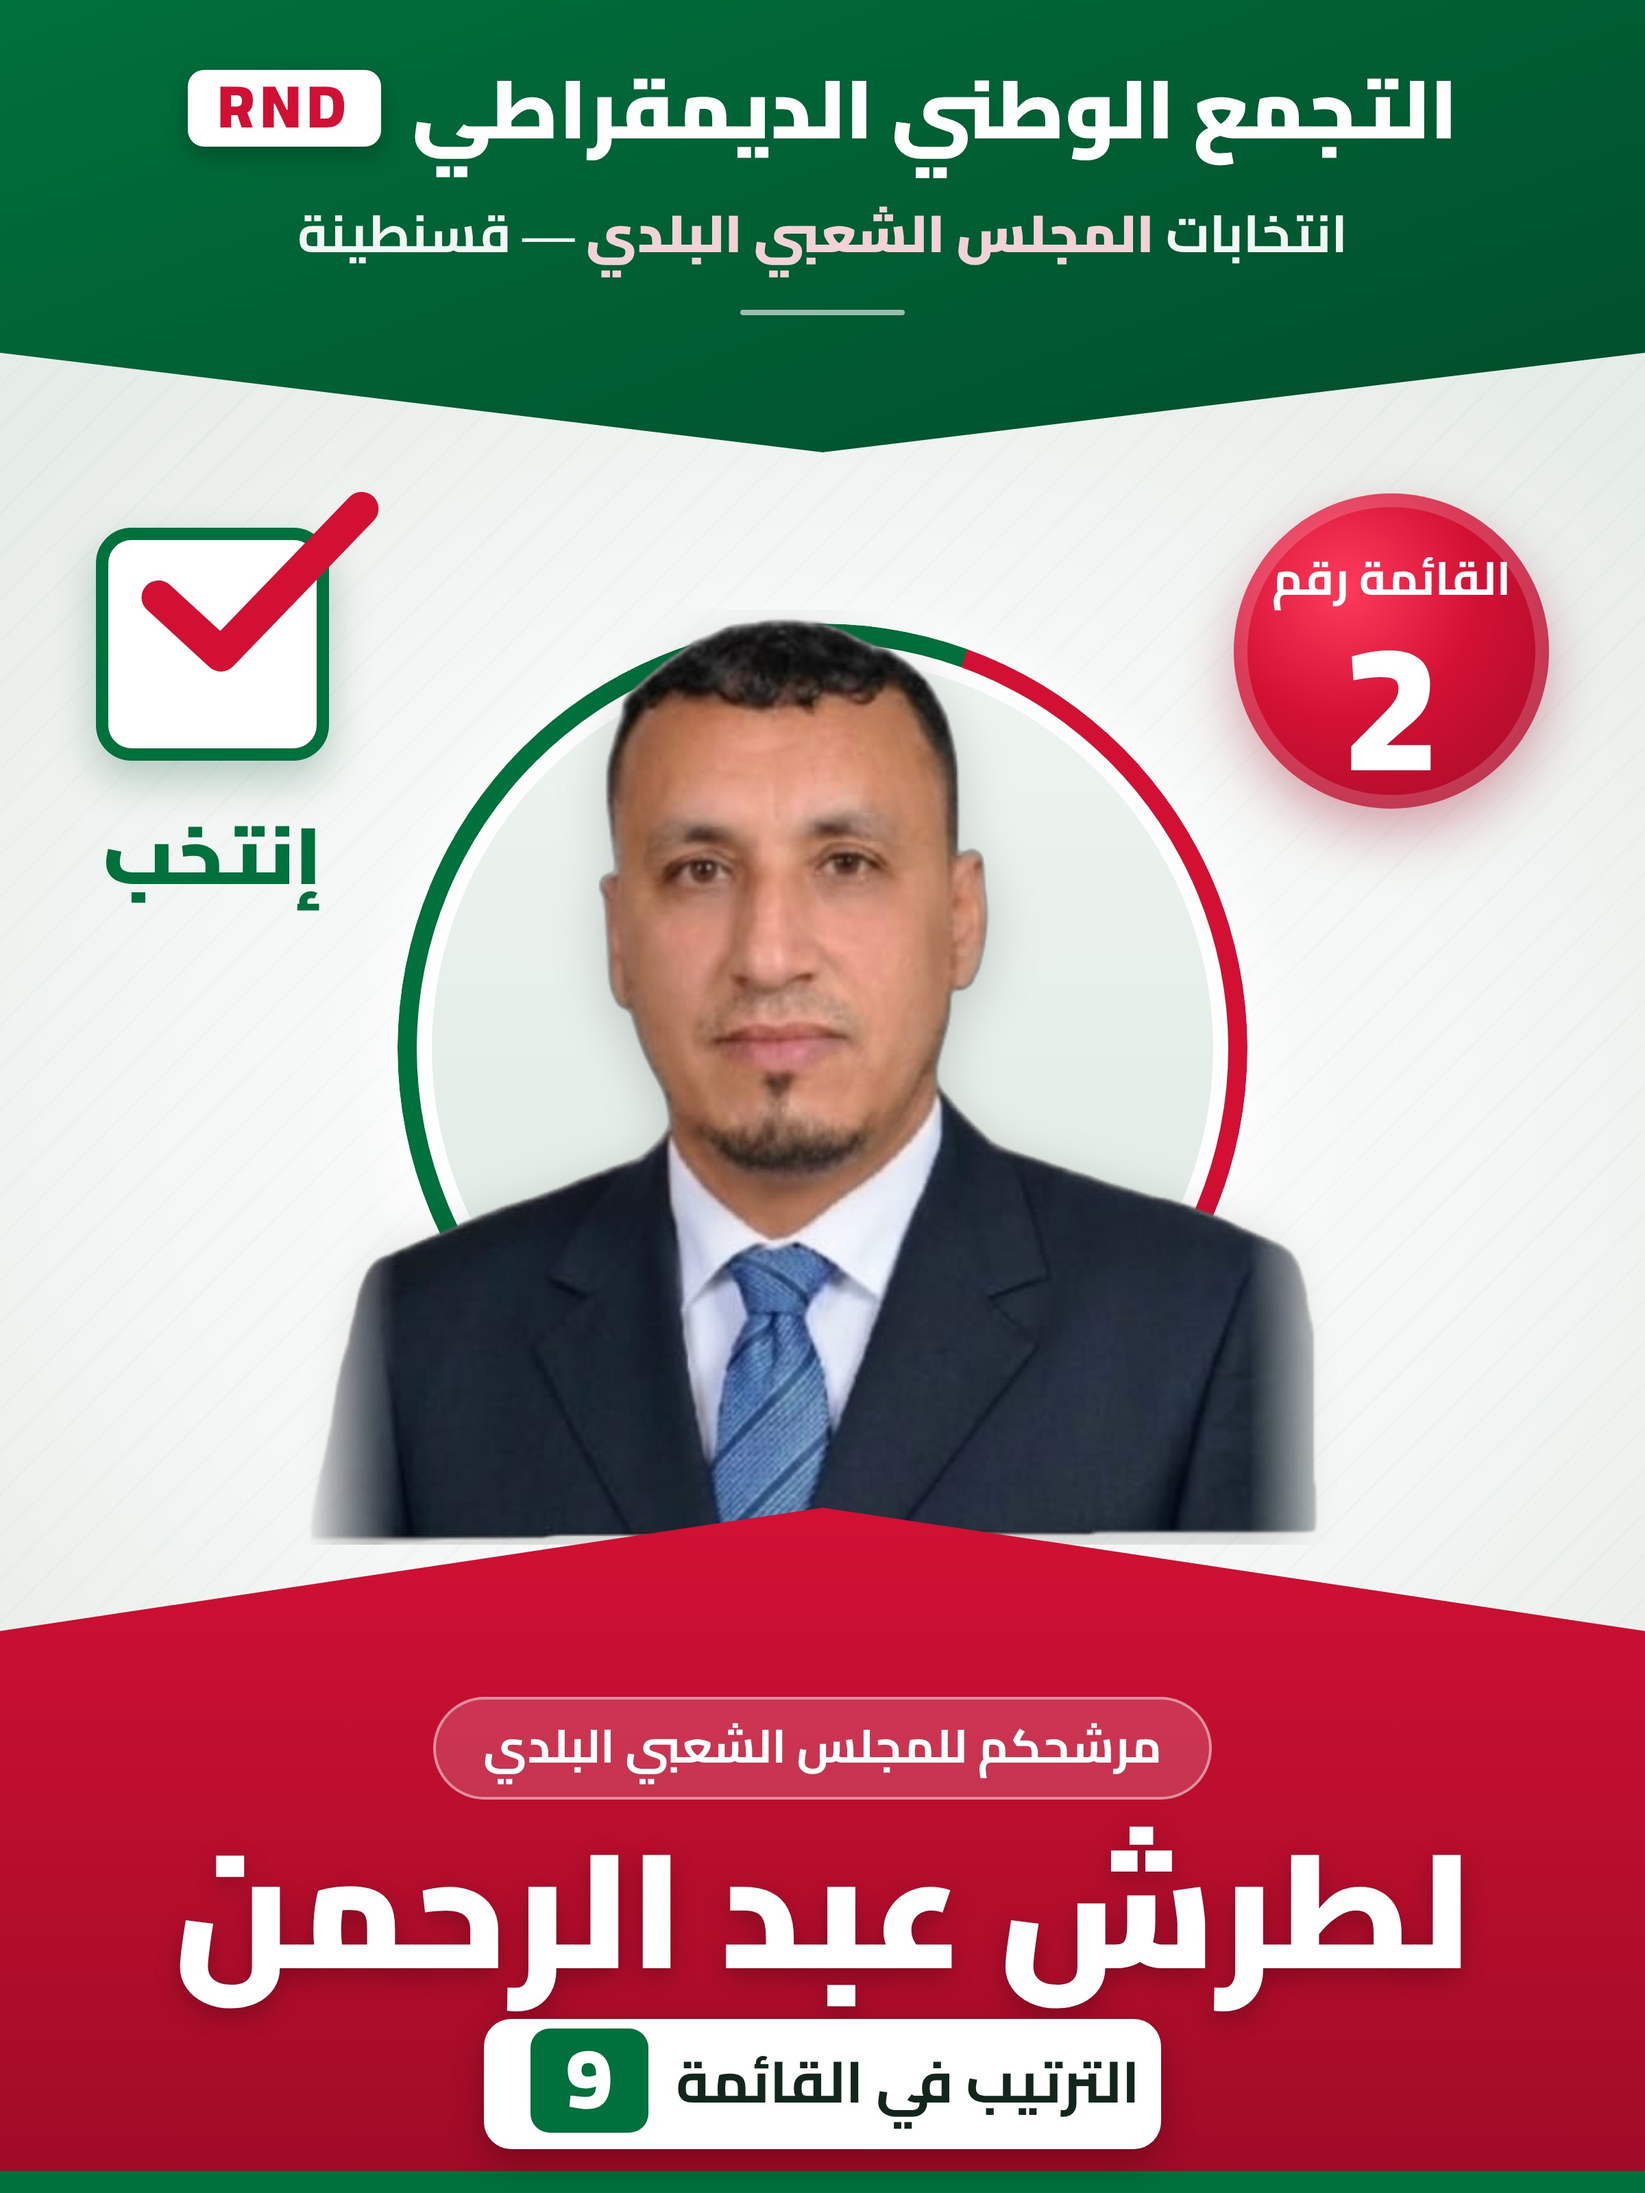
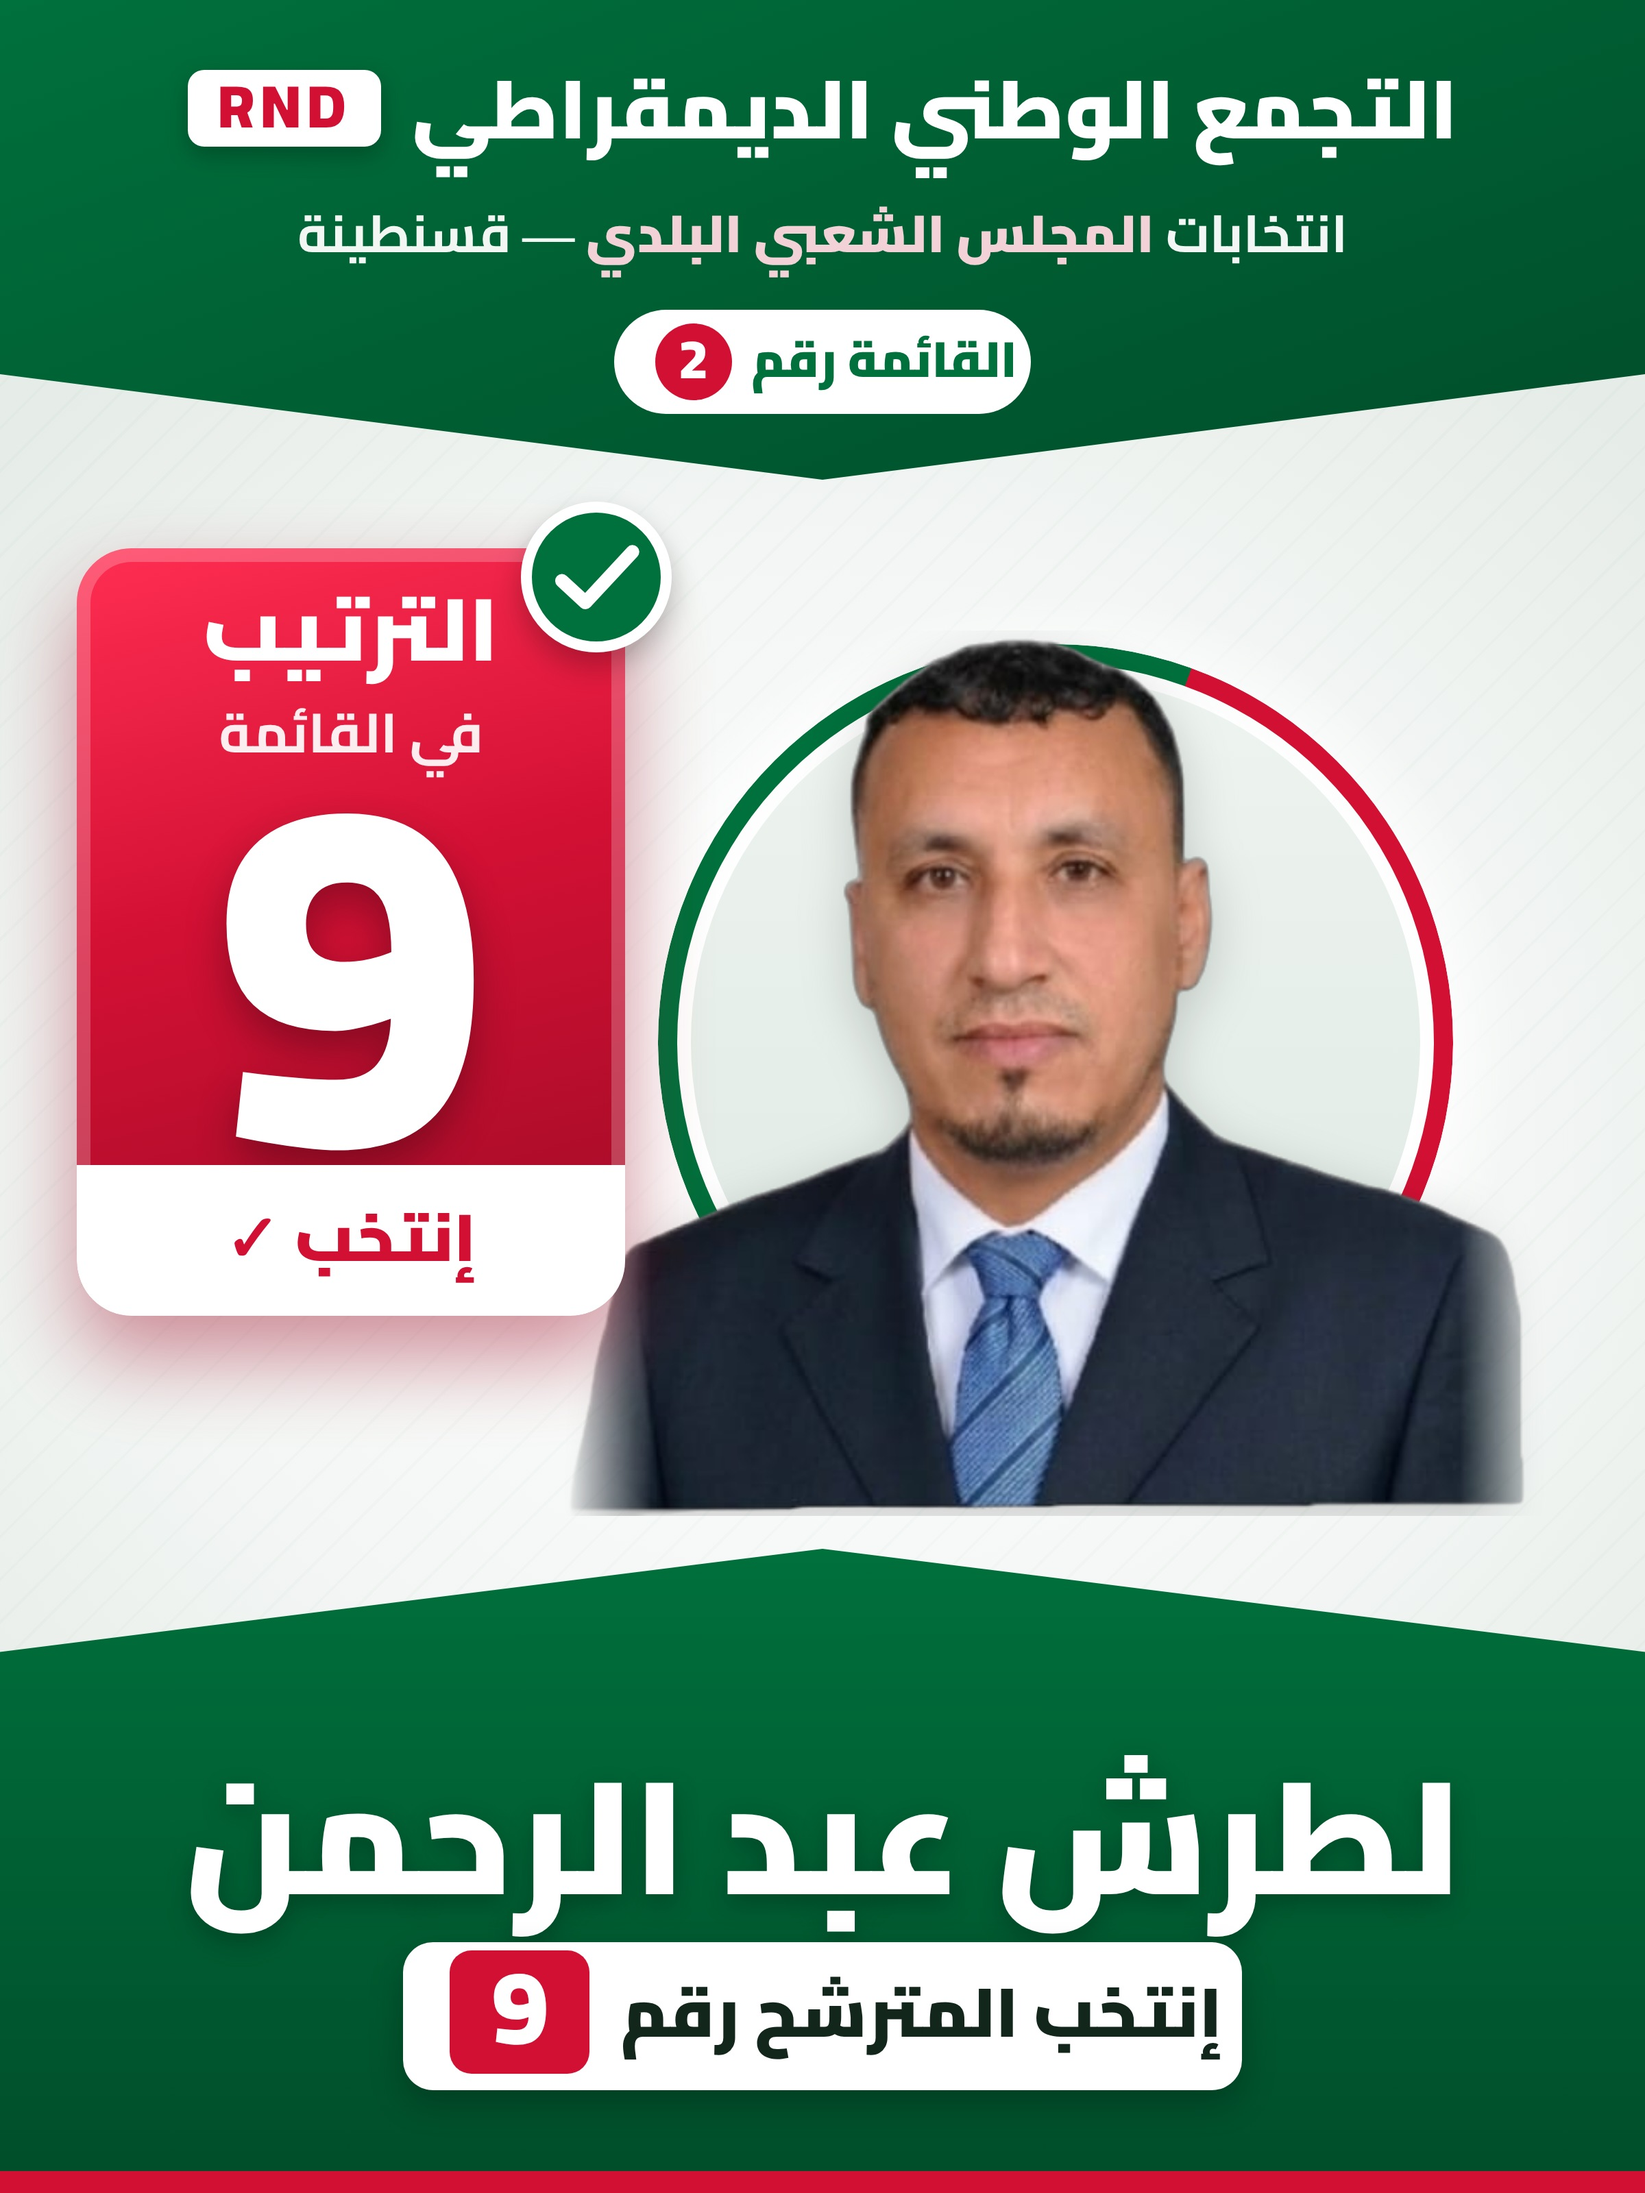
Make candidate list rank (9) the hero element of the poster
Claude-Session: https://claude.ai/code/session_01GQgGDRu9aGSvdKM9pBWQ8r

diff --git a/rnd-poster/source/poster.html b/rnd-poster/source/poster.html
@@ -12,7 +12,7 @@ body{width:1200px;height:1600px;font-family:La,Ar,sans-serif;background:#fff;ove
 /* subtle pattern */
 .p:before{content:"";position:absolute;inset:0;opacity:.35;
  background-image:repeating-linear-gradient(135deg,rgba(0,112,60,.06) 0 2px,transparent 2px 22px)}
-.head{position:absolute;top:0;left:0;right:0;height:330px;background:linear-gradient(160deg,var(--g),var(--gd));
+.head{position:absolute;top:0;left:0;right:0;height:350px;background:linear-gradient(160deg,var(--g),var(--gd));
  clip-path:polygon(0 0,100% 0,100% 78%,50% 100%,0 78%);color:#fff;text-align:center;padding-top:46px}
 .stripe{position:absolute;top:0;left:0;right:0;height:14px;background:linear-gradient(90deg,var(--g) 0 50%,#fff 50% 52%,var(--r) 52%)}
 .party{display:flex;justify-content:center;align-items:center;gap:22px;font-weight:900;font-size:60px;line-height:1.1}
@@ -20,45 +20,42 @@ body{width:1200px;height:1600px;font-family:La,Ar,sans-serif;background:#fff;ove
 .sub{margin-top:22px;font-family:Ar;font-weight:700;font-size:38px;opacity:.95}
 .sub b{color:#ffd9df}
 .line{width:120px;height:4px;background:#fff;opacity:.6;margin:20px auto 0;border-radius:4px}
-/* list badge */
-.list{position:absolute;top:360px;right:70px;width:230px;height:230px;border-radius:50%;
- background:radial-gradient(circle at 35% 30%,#ff3b5c,var(--r) 45%,var(--rd));color:#fff;text-align:center;
- box-shadow:0 18px 40px rgba(158,11,38,.35),inset 0 0 0 10px rgba(255,255,255,.18);z-index:5}
-.list .t{font-family:Ar;font-weight:700;font-size:34px;margin-top:30px}
-.list .n{font-family:La;font-weight:900;font-size:130px;line-height:.95}
-/* vote box */
-.vote{position:absolute;top:385px;left:70px;z-index:5;text-align:center}
-.box{width:170px;height:170px;border-radius:26px;background:#fff;border:9px solid var(--g);box-shadow:0 14px 30px rgba(0,77,42,.25);position:relative}
-.box svg{position:absolute;left:10px;top:-38px;width:190px}
-.vote .v{margin-top:14px;font-family:Ar;font-weight:900;font-size:58px;color:var(--g)}
-/* photo */
-.halo{position:absolute;left:50%;top:420px;width:700px;height:700px;margin-left:-350px;border-radius:50%;
+/* rank badge - hero element */
+.rank{position:absolute;top:400px;left:56px;width:400px;height:560px;z-index:7;border-radius:40px;
+ background:linear-gradient(165deg,#ff2e52,var(--r) 45%,var(--rd));color:#fff;text-align:center;
+ box-shadow:0 30px 60px rgba(158,11,38,.45),inset 0 0 0 10px rgba(255,255,255,.22)}
+.rank .t{font-family:Ar;font-weight:900;font-size:64px;margin-top:26px;line-height:1.05}.rank .t small{font-size:40px;font-weight:700;opacity:.92}
+.rank .n{font-family:La;font-weight:900;font-size:360px;line-height:.8;margin-top:0;text-shadow:0 14px 30px rgba(0,0,0,.3)}
+.rank .b{position:absolute;left:0;right:0;bottom:0;height:110px;background:#fff;color:var(--r);border-radius:0 0 40px 40px;
+ font-family:Ar;font-weight:900;font-size:48px;line-height:104px}
+.rank .ck{position:absolute;top:-34px;right:-34px;width:110px;height:110px;border-radius:50%;background:var(--g);border:8px solid #fff;box-shadow:0 10px 20px rgba(0,0,0,.25)}
+.rank .ck svg{width:66px;margin-top:22px}
+.lst{display:inline-flex;align-items:center;gap:14px;margin-top:20px;background:#fff;color:var(--g);border-radius:40px;padding:2px 10px 6px 30px;font-family:Ar;font-weight:900;font-size:36px}
+.lst i{font-style:normal;font-family:La;background:var(--r);color:#fff;border-radius:50%;width:56px;height:56px;line-height:52px;font-size:40px;display:inline-block;margin-top:4px}
+.halo{position:absolute;left:770px;top:430px;width:680px;height:680px;margin-left:-340px;border-radius:50%;
  background:radial-gradient(circle,#fff 0 55%,rgba(255,255,255,0) 70%);}
-.ring{position:absolute;left:50%;top:455px;width:620px;height:620px;margin-left:-310px;border-radius:50%;
+.ring{position:absolute;left:770px;top:470px;width:580px;height:580px;margin-left:-290px;border-radius:50%;
  border:14px solid transparent;background:conic-gradient(from 200deg,var(--g) 0 50%,var(--r) 50% 100%) border-box;
  -webkit-mask:linear-gradient(#000 0 0) padding-box,linear-gradient(#000 0 0);-webkit-mask-composite:xor;mask-composite:exclude}
-.ring2{position:absolute;left:50%;top:480px;width:570px;height:570px;margin-left:-285px;border-radius:50%;background:linear-gradient(180deg,#eef4f0,#dfe9e3)}
-.person{position:absolute;left:50%;top:445px;width:760px;margin-left:-380px;z-index:3;filter:drop-shadow(0 10px 18px rgba(0,0,0,.18));-webkit-mask-image:linear-gradient(90deg,transparent 0,#000 9%,#000 91%,transparent 100%)}
-/* bottom */
-.foot{position:absolute;left:0;right:0;bottom:0;height:500px;z-index:4;
- background:linear-gradient(180deg,var(--r),var(--rd));clip-path:polygon(0 18%,50% 0,100% 18%,100% 100%,0 100%)}
-.foot:after{content:"";position:absolute;left:0;right:0;bottom:0;height:16px;background:var(--g)}
-.cap{position:absolute;left:0;right:0;bottom:0;height:420px;z-index:6;text-align:center;color:#fff}
-.lab{display:inline-block;margin-top:58px;font-family:Ar;font-weight:700;font-size:34px;background:rgba(255,255,255,.16);border:2px solid rgba(255,255,255,.45);padding:2px 34px 6px;border-radius:40px}
-.name{font-family:Ar;font-weight:900;font-size:118px;line-height:1.25;margin-top:6px;text-shadow:0 6px 18px rgba(0,0,0,.25)}
-.num{display:inline-flex;align-items:center;gap:20px;margin-top:6px;background:#fff;color:var(--ink);border-radius:20px;padding:6px 16px 10px 34px;box-shadow:0 10px 24px rgba(0,0,0,.25)}
-.num span{font-family:Ar;font-weight:700;font-size:42px}
-.num i{font-style:normal;font-family:La;font-weight:900;font-size:62px;line-height:1;background:var(--g);color:#fff;border-radius:14px;padding:4px 26px 10px}
+.ring2{position:absolute;left:770px;top:494px;width:532px;height:532px;margin-left:-266px;border-radius:50%;background:linear-gradient(180deg,#eef4f0,#dfe9e3)}
+.person{position:absolute;left:770px;top:460px;width:720px;margin-left:-360px;z-index:3;filter:drop-shadow(0 10px 18px rgba(0,0,0,.18));-webkit-mask-image:linear-gradient(90deg,transparent 0,#000 9%,#000 91%,transparent 100%)}
+.foot{position:absolute;left:0;right:0;bottom:0;height:470px;z-index:4;
+ background:linear-gradient(180deg,var(--g),var(--gd));clip-path:polygon(0 16%,50% 0,100% 16%,100% 100%,0 100%)}
+.foot:after{content:"";position:absolute;left:0;right:0;bottom:0;height:16px;background:var(--r)}
+.cap{position:absolute;left:0;right:0;bottom:0;height:400px;z-index:6;text-align:center;color:#fff}
+.name{font-family:Ar;font-weight:900;font-size:116px;line-height:1.2;margin-top:70px;text-shadow:0 6px 18px rgba(0,0,0,.25)}
+.cta{display:inline-flex;align-items:center;gap:22px;margin-top:8px;background:#fff;color:var(--ink);border-radius:22px;padding:4px 14px 10px 34px;box-shadow:0 10px 24px rgba(0,0,0,.25);font-family:Ar;font-weight:900;font-size:50px}
+.cta i{font-style:normal;font-family:La;font-weight:900;font-size:76px;line-height:1;background:var(--r);color:#fff;border-radius:16px;padding:2px 30px 12px}
 </style></head><body><div class="p">
 <div class="head">
  <div class="party"><span style="font-family:Ar">التجمع الوطني الديمقراطي</span><span class="rnd">RND</span></div>
- <div class="sub">انتخابات <b>المجلس الشعبي البلدي</b> — قسنطينة</div><div class="line"></div></div>
-<div class="list"><div class="t">القائمة رقم</div><div class="n">2</div></div>
-<div class="vote"><div class="box"><svg viewBox="0 0 100 80"><path d="M14 42 L38 64 L92 8" fill="none" stroke="#d21034" stroke-width="13" stroke-linecap="round" stroke-linejoin="round"/></svg></div><div class="v">إنتخب</div></div>
+ <div class="sub">انتخابات <b>المجلس الشعبي البلدي</b> — قسنطينة</div>
+ <div class="lst">القائمة رقم <i>2</i></div></div>
+<div class="rank"><div class="ck"><svg viewBox="0 0 100 80"><path d="M12 42 L38 66 L90 10" fill="none" stroke="#fff" stroke-width="15" stroke-linecap="round" stroke-linejoin="round"/></svg></div>
+ <div class="t">الترتيب<br><small>في القائمة</small></div><div class="n">9</div><div class="b">إنتخب ✓</div></div>
 <div class="halo"></div><div class="ring"></div><div class="ring2"></div>
 <img class="person" src="person.png">
 <div class="foot"></div>
-<div class="cap"><div class="lab">مرشحكم للمجلس الشعبي البلدي</div>
- <div class="name">لطرش عبد الرحمن</div>
- <div class="num"><span>الترتيب في القائمة</span><i>9</i></div></div>
-</div></body></html>
+<div class="cap"><div class="name">لطرش عبد الرحمن</div>
+ <div class="cta">إنتخب المترشح رقم <i>9</i></div></div>
+</div></div></body></html>
